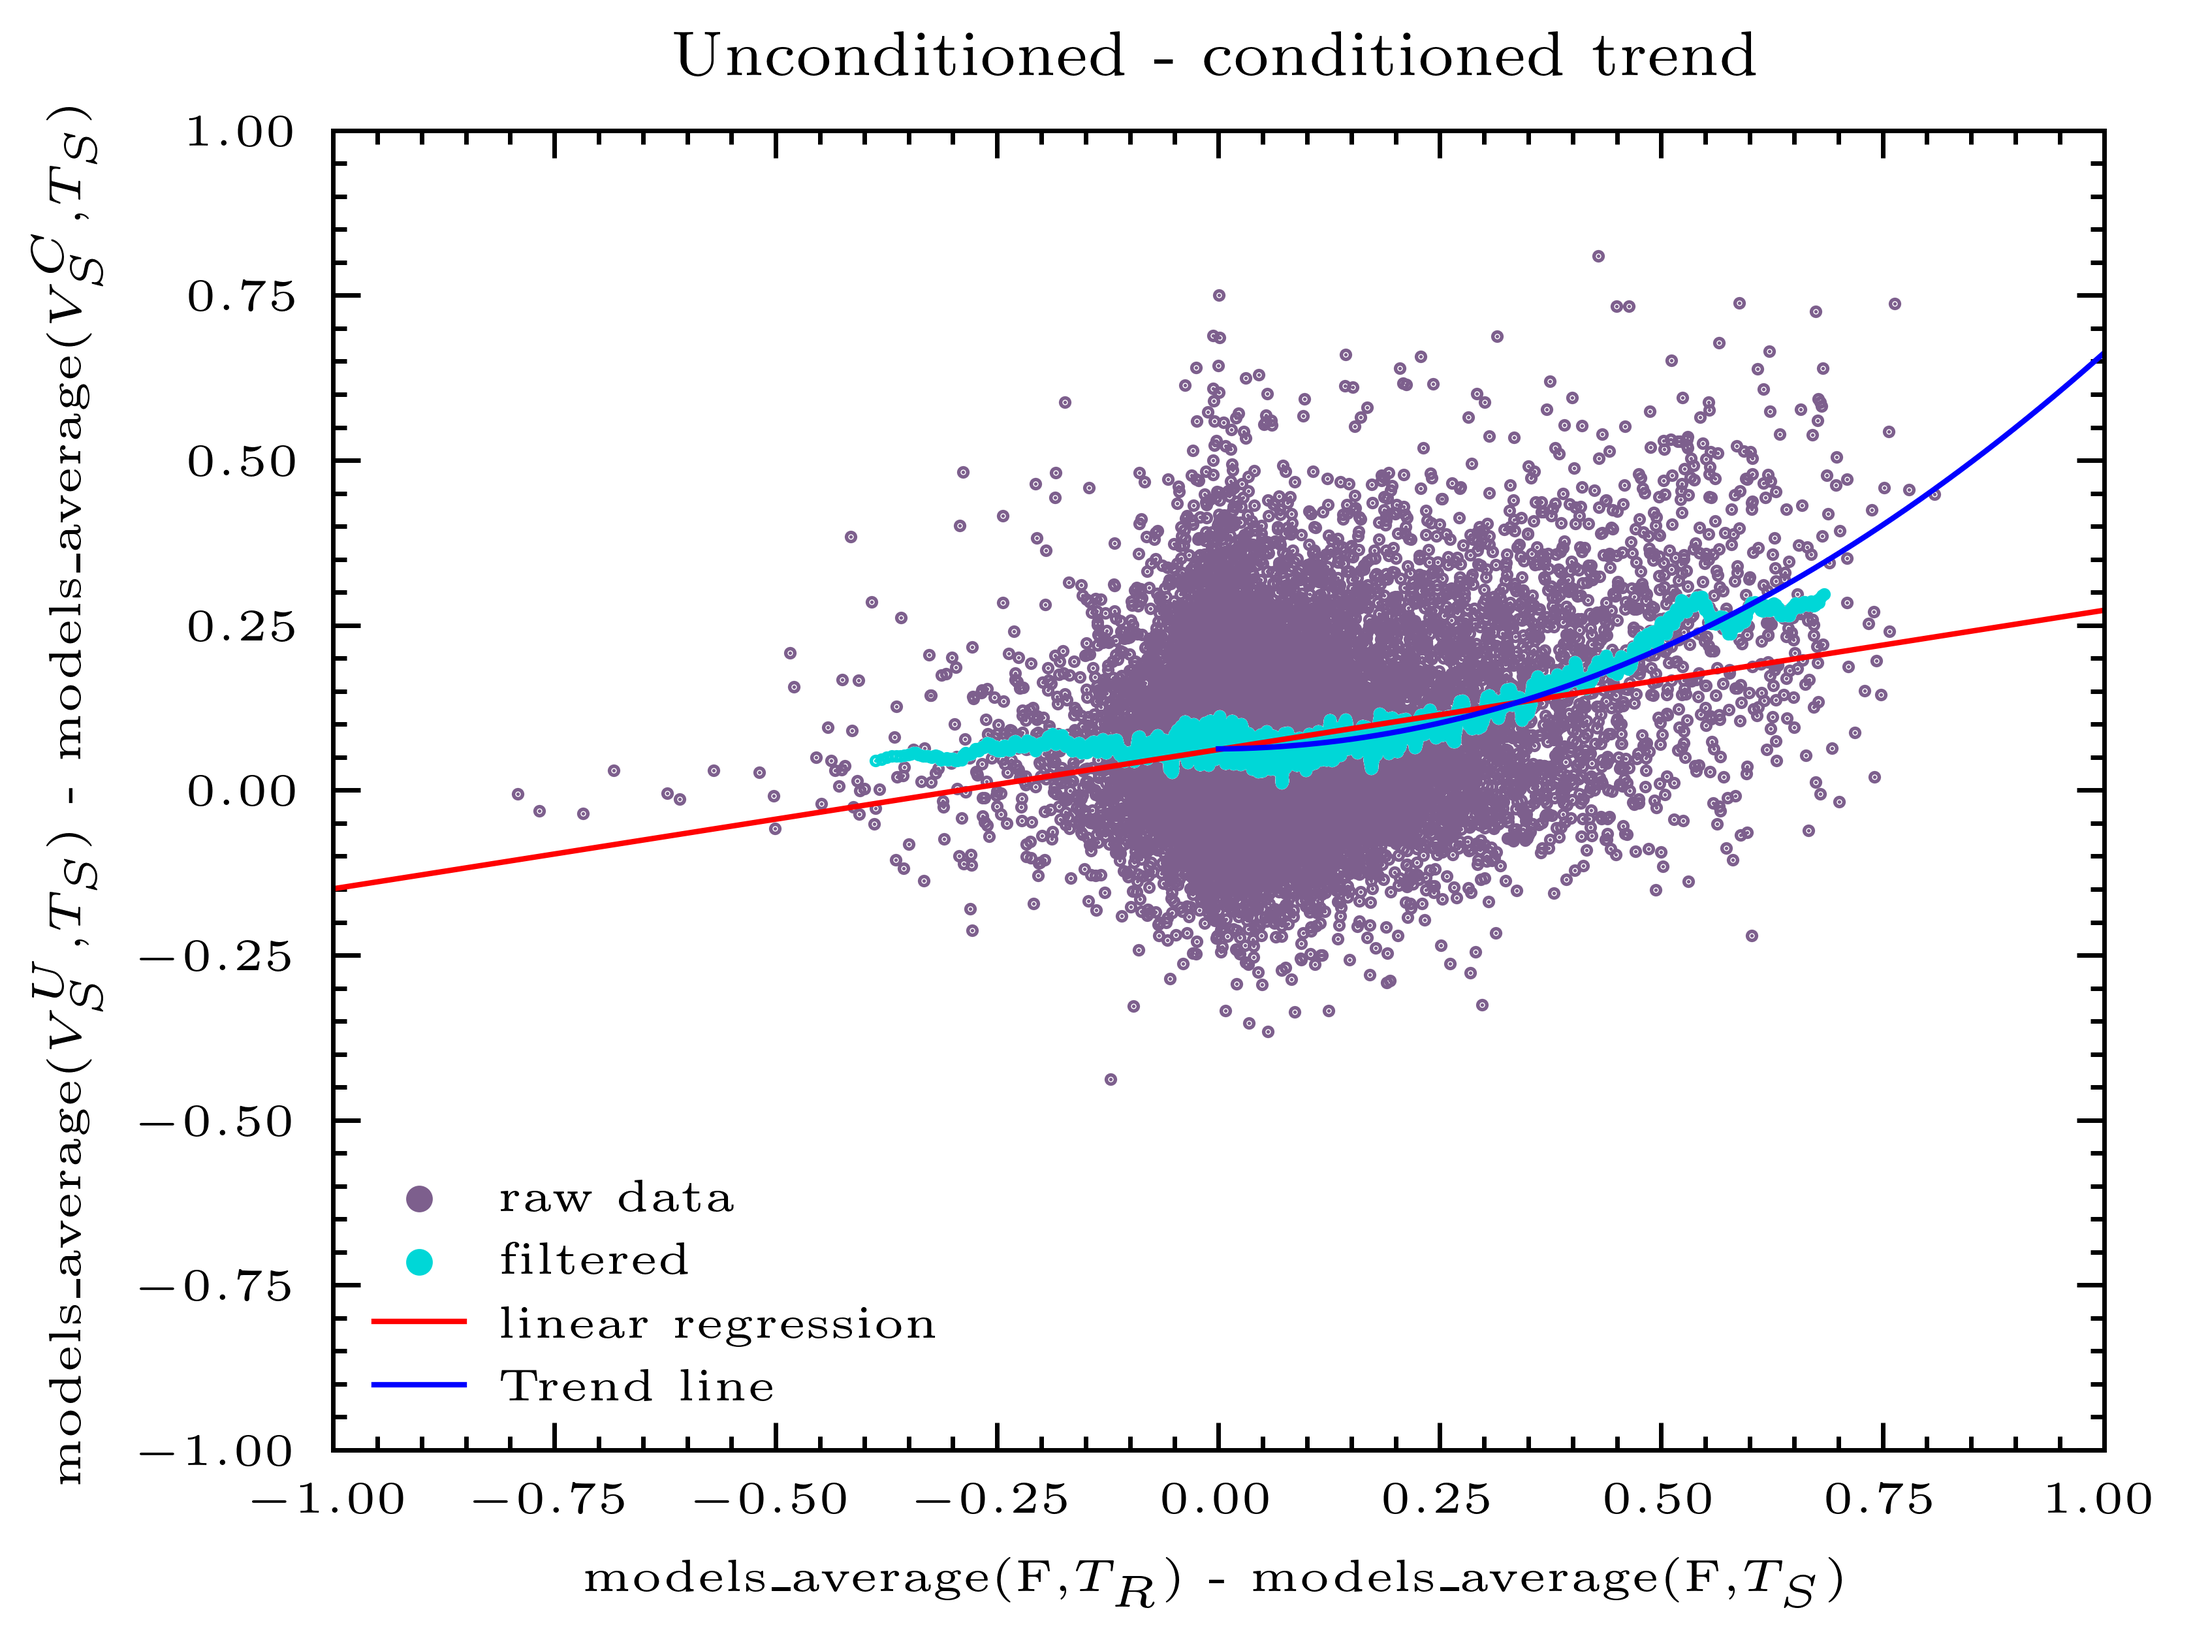
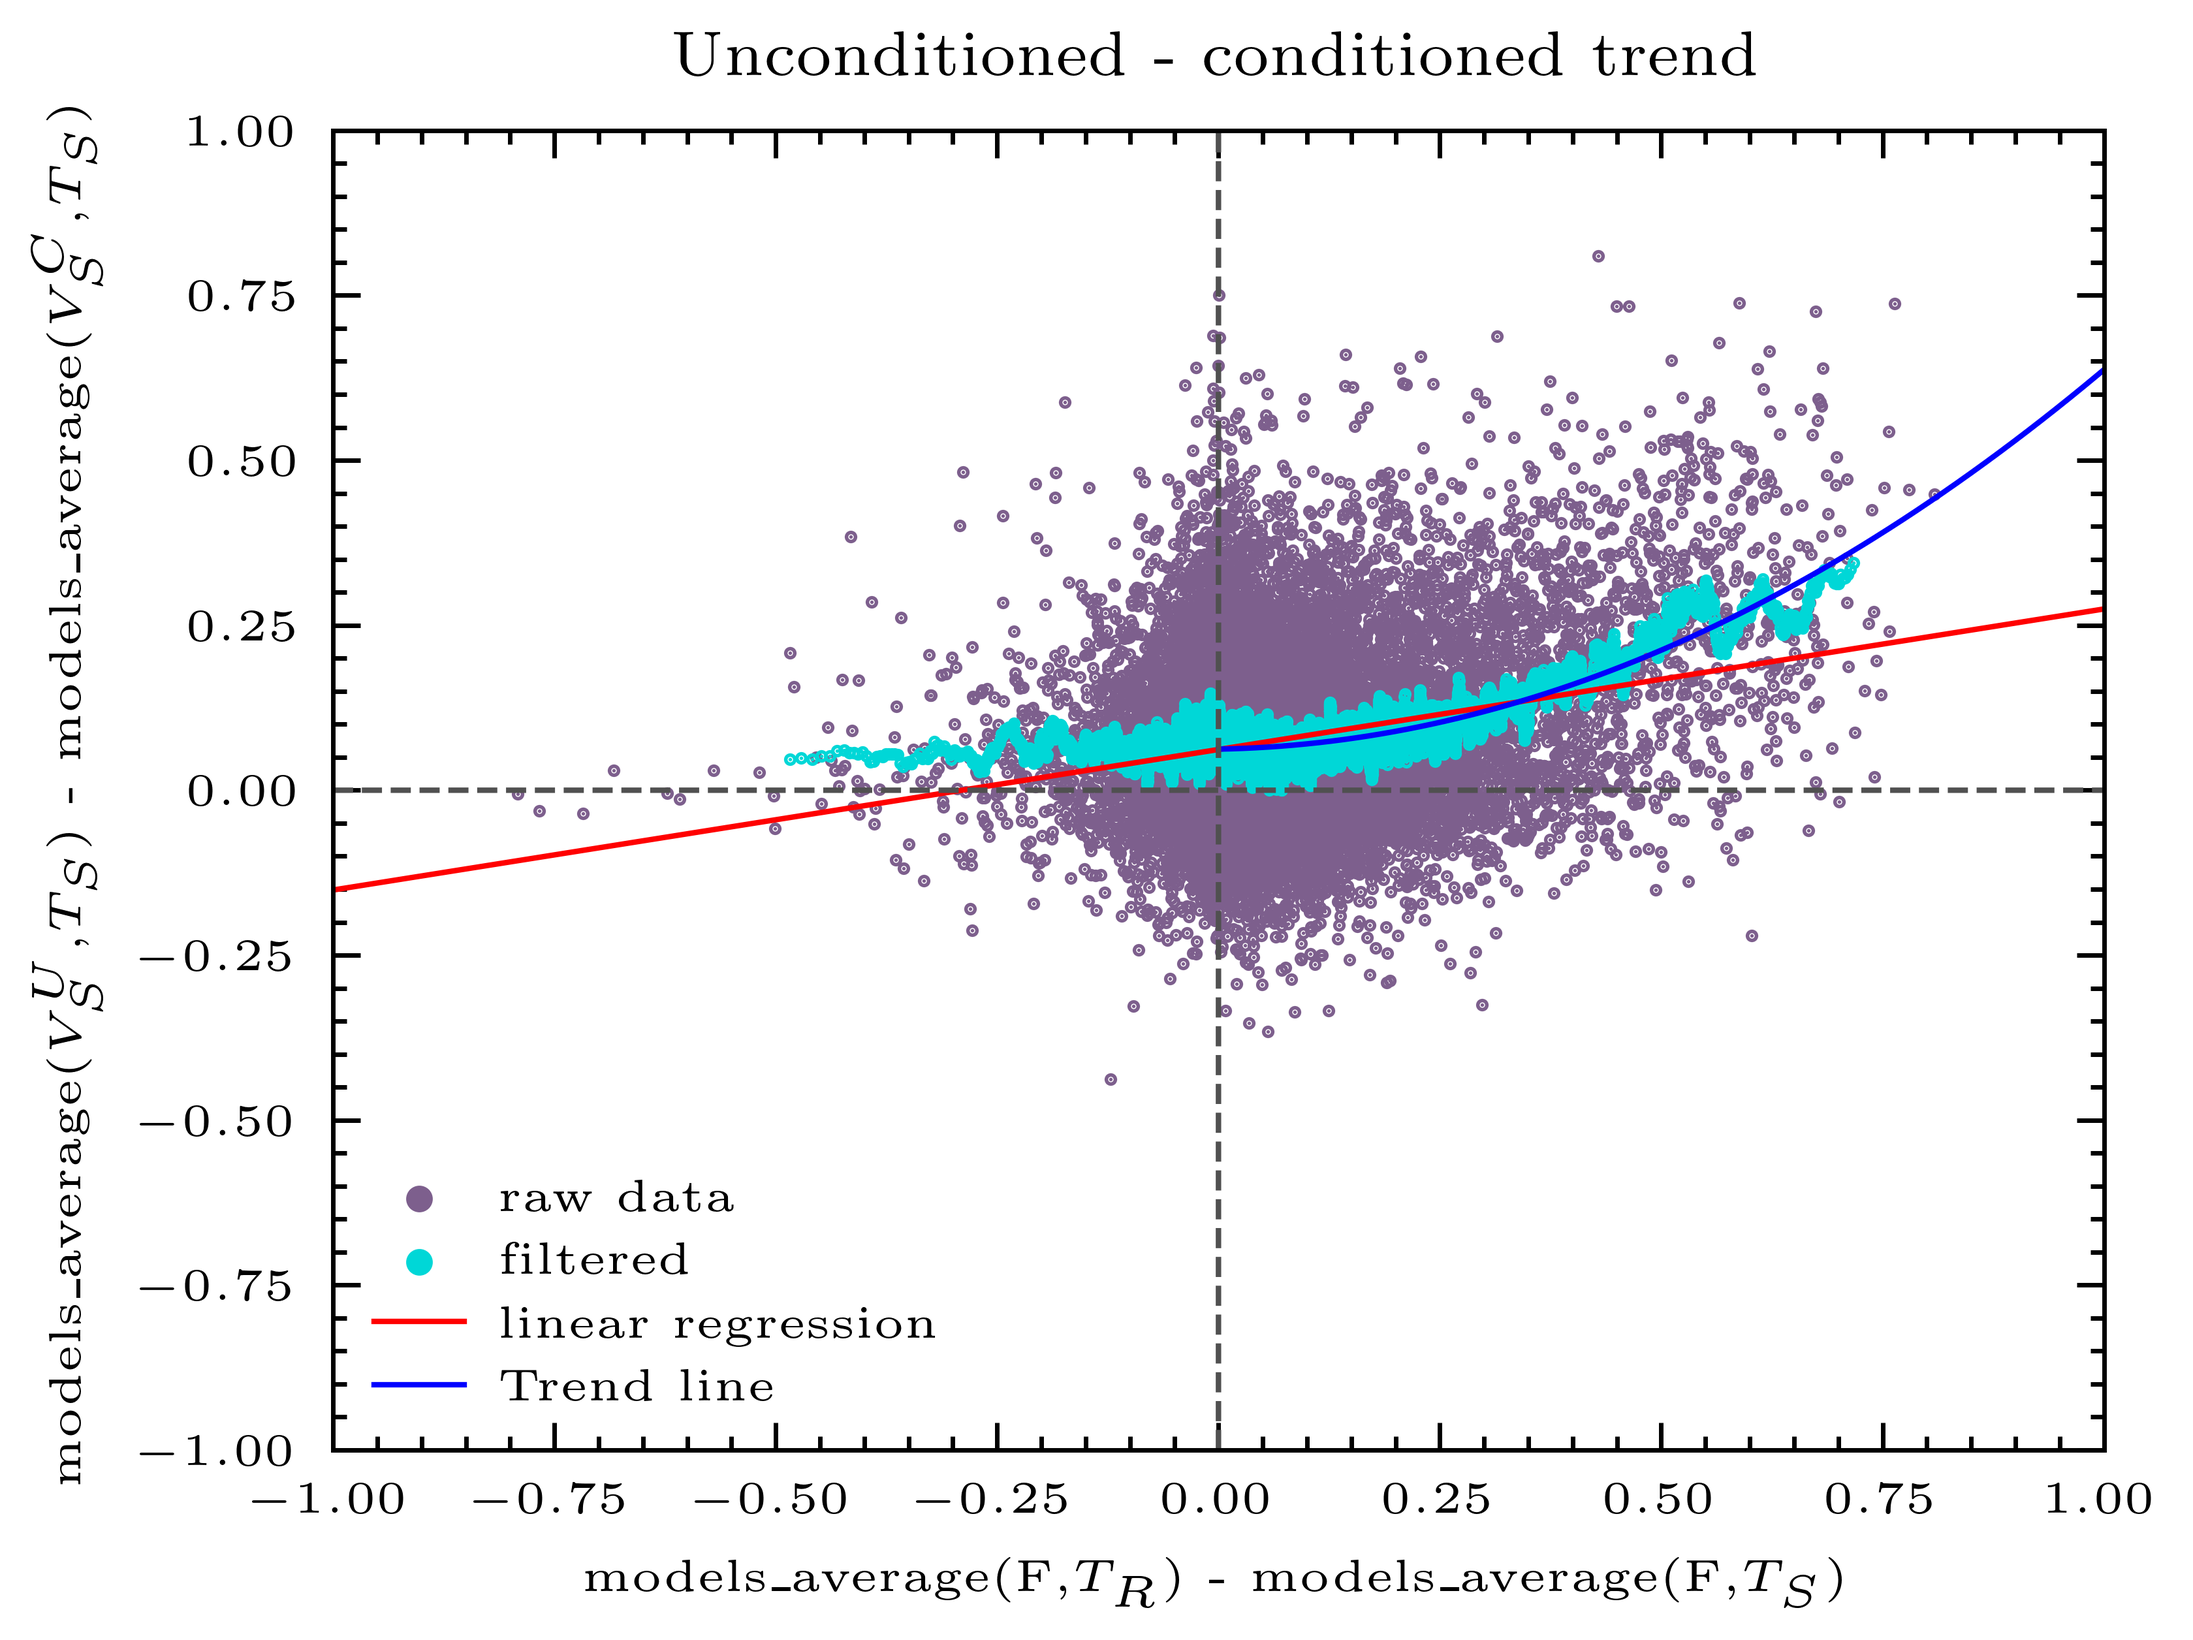
.

diff --git a/VQAScore.py b/VQAScore.py
@@ -48,24 +48,24 @@ for index, row in dataframe.iterrows():
         img_path = first_frames_dictionary[row['videopath']]['image']
 
         images = [img_path] #
-        texts = [row['caption'], row['neg_caption']]
+        texts = [row['caption'], row['contrasted_caption']]
 
         clip_results = clip_flant5_score(images=images, texts=texts)
         llava_results = llava_score(images=images, texts=texts)
         instructblip_results = instructblip_score(images=images, texts=texts)
 
         # I save the values obtained by the model in the pandas dataframe
-        dataframe['clip_flant(ff-caption)'].at[index] = clip_results[0][0].cpu().numpy()
-        dataframe['clip_flant(ff-neg_cap)'].at[index] = clip_results[0][1].cpu().numpy()
+        dataframe['clip_flant(F,Tr)'].at[index] = clip_results[0][0].cpu().numpy()
+        dataframe['clip_flant(F,Ts)'].at[index] = clip_results[0][1].cpu().numpy()
         dataframe['clip_flant_difference'].at[index] = clip_results[0][0].cpu().numpy() - clip_results[0][1].cpu().numpy()
 
-        dataframe['llava(ff-caption)'].at[index] = clip_results[0][0].cpu().numpy()
-        dataframe['llava(ff-neg_cap)'].at[index] = clip_results[0][1].cpu().numpy()
-        dataframe['llava_difference'].at[index] = clip_results[0][0].cpu().numpy() - clip_results[0][1].cpu().numpy()
+        dataframe['llava(F,Tr)'].at[index] = llava_results[0][0].cpu().numpy()
+        dataframe['llava(F,Ts)'].at[index] = llava_results[0][1].cpu().numpy()
+        dataframe['llava_difference'].at[index] = llava_results[0][0].cpu().numpy() - llava_results[0][1].cpu().numpy()
 
-        dataframe['instructblip(ff-caption)'].at[index] = clip_results[0][0].cpu().numpy()
-        dataframe['instructblip(ff-neg_cap)'].at[index] = clip_results[0][1].cpu().numpy()
-        dataframe['instructblip_difference'].at[index] = clip_results[0][0].cpu().numpy() - clip_results[0][1].cpu().numpy()
+        dataframe['instructblip(F,Tr)'].at[index] = instructblip_results[0][0].cpu().numpy()
+        dataframe['instructblip(F,Ts)'].at[index] = instructblip_results[0][1].cpu().numpy()
+        dataframe['instructblip_difference'].at[index] = instructblip_results[0][0].cpu().numpy() - instructblip_results[0][1].cpu().numpy()
 
     else:
         print('EXCEPTION')

diff --git a/plottings/PerLaTesi/Appendici/A/A2_models_comparison.py b/plottings/PerLaTesi/Appendici/A/A2_models_comparison.py
@@ -1,0 +1,47 @@
+import pandas as pd
+import matplotlib.pyplot as plt
+import scienceplots
+
+plt.style.use(['science'])
+
+df = pd.read_csv('../../with_mean.csv')
+fig, ax = plt.subplots(1, 3, figsize=(15, 5))
+plt.rcParams.update({'font.size': 12})
+
+fig.suptitle('Conditioned video alignment distribution by model', fontsize=15)
+
+ax[0].hist(df['clip_flant(Vc_mean,S)'],color='#f79410',bins=200)
+m0 = [df['clip_flant(Vc_mean,S)'].mean(),df['clip_flant(Vc_mean,S)'].mean()]
+ax[0].plot(m0,[0,255],color='#ff0000',label='Mean')
+ax[0].plot([0.5,0.5],[0,255],'k--')
+ax[0].set_xlabel('$E(V_S^C,T_S)$')
+ax[0].set_title('Clip flant')
+ax[0].set_xlim([0,1])
+ax[0].set_ylim([0,255])
+ax[0].legend(facecolor="pink", loc=2,markerscale=5)
+
+
+ax[1].hist(df['llava(Vc_mean,S)'],color='#1a6fc4',bins=200)
+m1 = [df['llava(Vc_mean,S)'].mean(),df['llava(Vc_mean,S)'].mean()]
+ax[1].plot(m1,[0,255],color='#ff0000',label='Mean')
+ax[1].plot([0.5,0.5],[0,255],'k--')
+ax[1].set_xlabel('$E(V_S^C,T_S)$')
+ax[1].set_title('Llava')
+ax[1].set_xlim([0,1])
+ax[1].set_ylim([0,255])
+ax[1].legend(facecolor="pink", loc=2,markerscale=5)
+
+ax[2].hist(df['instructblip(Vc_mean,S)'],color='#0cb14d',bins=200)
+m2 = [df['instructblip(Vc_mean,S)'].mean(),df['instructblip(Vc_mean,S)'].mean()]
+ax[2].plot(m2,[0,255],color='#ff0000',label='Mean')
+ax[2].plot([0.5,0.5],[0,255],'k--')
+ax[2].set_xlabel('$E(V_S^C,T_S)$')
+ax[2].set_title('Instructblip')
+ax[2].set_xlim([0,1])
+ax[2].set_ylim([0,255])
+ax[2].legend(facecolor="pink", loc=2,markerscale=5)
+
+fig.set_tight_layout(tight=True)
+
+plt.savefig(f'A2_models_comparison.png', dpi=300)
+plt.clf()

diff --git a/plottings/PerLaTesi/7.py b/plottings/PerLaTesi/7.py
@@ -60,7 +60,7 @@ def filter(df,val,x,y):
     return a
 
 
-a = filter(df,77,'D(mean_wv(F,R),mean_wv(F,S))','D(mean_wv(Vu,S),mean_wv(Vc,S))')
+a = filter(df,33,'D(mean_wv(F,R),mean_wv(F,S))','D(mean_wv(Vu,S),mean_wv(Vc,S))')
 
 size = 0.6
 transparency = 1
@@ -78,6 +78,7 @@ plt.xlim([-1,1])
 plt.ylim([-1,1])
 
 xs = np.linspace(-1, 1, 10000)
+ys = np.linspace(0, 0, 10000)
 z = np.polyfit(a['D(mean_wv(F,R),mean_wv(F,S))'], a['D(mean_wv(Vu,S),mean_wv(Vc,S))'], 1)
 p = np.poly1d(z)
 plt.plot(xs, p(xs),'r-',linewidth=0.6, label='linear regression')
@@ -86,6 +87,9 @@ xs = np.linspace(0, 1, 10000)
 z = np.polyfit(a['D(mean_wv(F,R),mean_wv(F,S))'], a['D(mean_wv(Vu,S),mean_wv(Vc,S))'], 2)
 p = np.poly1d(z)
 plt.plot(xs, p(xs),'b-',linewidth=0.6, label='Trend line')
+xs = np.linspace(-1, 1, 10000)
+plt.plot(xs, ys,'--',c='#505050',linewidth=0.6)
+plt.plot(ys, xs,'--',c='#505050',linewidth=0.6)
 
 plt.legend(markerscale=5, ncol=1,loc=3)
 

diff --git a/plottings/models_correlation.py b/plottings/models_correlation.py
@@ -25,5 +25,18 @@ plt.tight_layout()
 plt.savefig(f'plots/models_correlations/v_r_c.png', dpi=1000)
 plt.clf()
 
+ds = df.sort_values('D(llava(F,R),llava(F,S))',ascending=True)
+
+ds.reset_index(drop = True, inplace = True)
+
+plt.title("Models correlation",fontsize=7)
+plt.scatter(ds.index.values, ds['D(instructblip(F,R),instructblip(F,S))'],c='#0cb14d',s=size,alpha=transparency,marker='x')
+plt.scatter(ds.index.values, ds['D(clip_flant(F,R),clip_flant(F,S))'],c='#f13511',s=size,alpha=transparency,marker='x')
+plt.scatter(ds.index.values, ds['D(mean_wv(F,R),mean_wv(F,S))'],c='#ffff00',s=size,alpha=transparency,marker='x')
+plt.scatter(ds.index.values, ds['D(llava(F,R),llava(F,S))'],c='#145d9e',s=size,alpha=transparency,marker='+')
+
+plt.tight_layout()
+
+plt.savefig(f'plots/models_correlations/diff_frames.png', dpi=1000)
 # TODO fare un grafico che mostra il valore medio n per n come sopra cosi da eliminare un po' di rumore
 

diff --git a/plottings/PerLaTesi/Appendici/B/instructblip_comparison.py b/plottings/PerLaTesi/Appendici/B/instructblip_comparison.py
@@ -94,7 +94,7 @@ p = np.poly1d(z)
 ax[1].plot(df['instructblip(F,S)'], p(df['instructblip(F,S)']),"r-", label='Trend line')
 
 fig.set_tight_layout(tight=True)
-plt.savefig(f'A1_instructblip_comparison.png', dpi=300)
+plt.savefig(f'B3_instructblip_comparison.png', dpi=300)
 plt.clf()
 
 matplotlib.pyplot.close()

diff --git a/plottings/PerLaTesi/Appendici/B/clip_comparison.py b/plottings/PerLaTesi/Appendici/B/clip_comparison.py
@@ -96,7 +96,7 @@ ax[1].plot(df['clip_flant(F,S)'], p(df['clip_flant(F,S)']),"r-", label='Trend li
 
 
 fig.set_tight_layout(tight=True)
-plt.savefig(f'A1_clip_flant_comparison.png', dpi=300)
+plt.savefig(f'B1_clip_flant_comparison.png', dpi=300)
 plt.clf()
 
 matplotlib.pyplot.close()

diff --git a/plottings/PerLaTesi/Appendici/B/llava_comparison.py b/plottings/PerLaTesi/Appendici/B/llava_comparison.py
@@ -95,7 +95,7 @@ p = np.poly1d(z)
 ax[1].plot(df['llava(F,S)'], p(df['llava(F,S)']),"r-", label='Trend line')
 
 fig.set_tight_layout(tight=True)
-plt.savefig(f'A1_llava_comparison.png', dpi=300)
+plt.savefig(f'B2_llava_comparison.png', dpi=300)
 plt.clf()
 
 matplotlib.pyplot.close()
